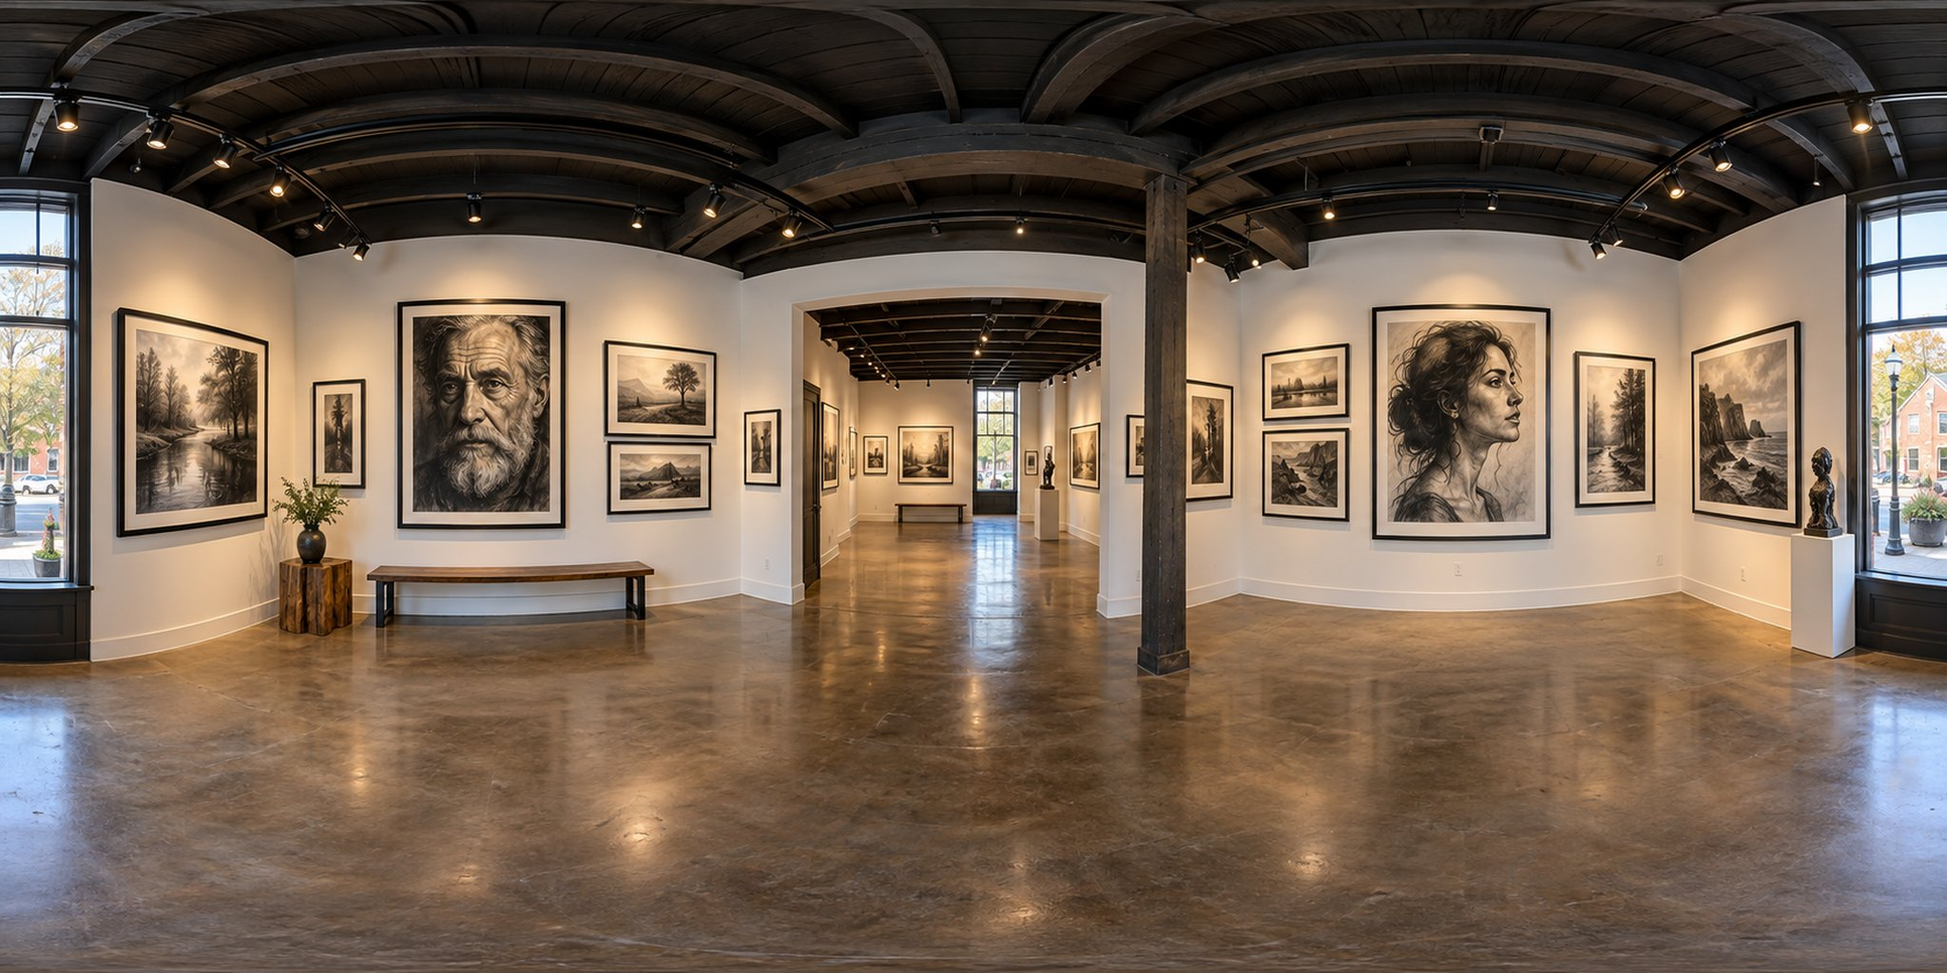
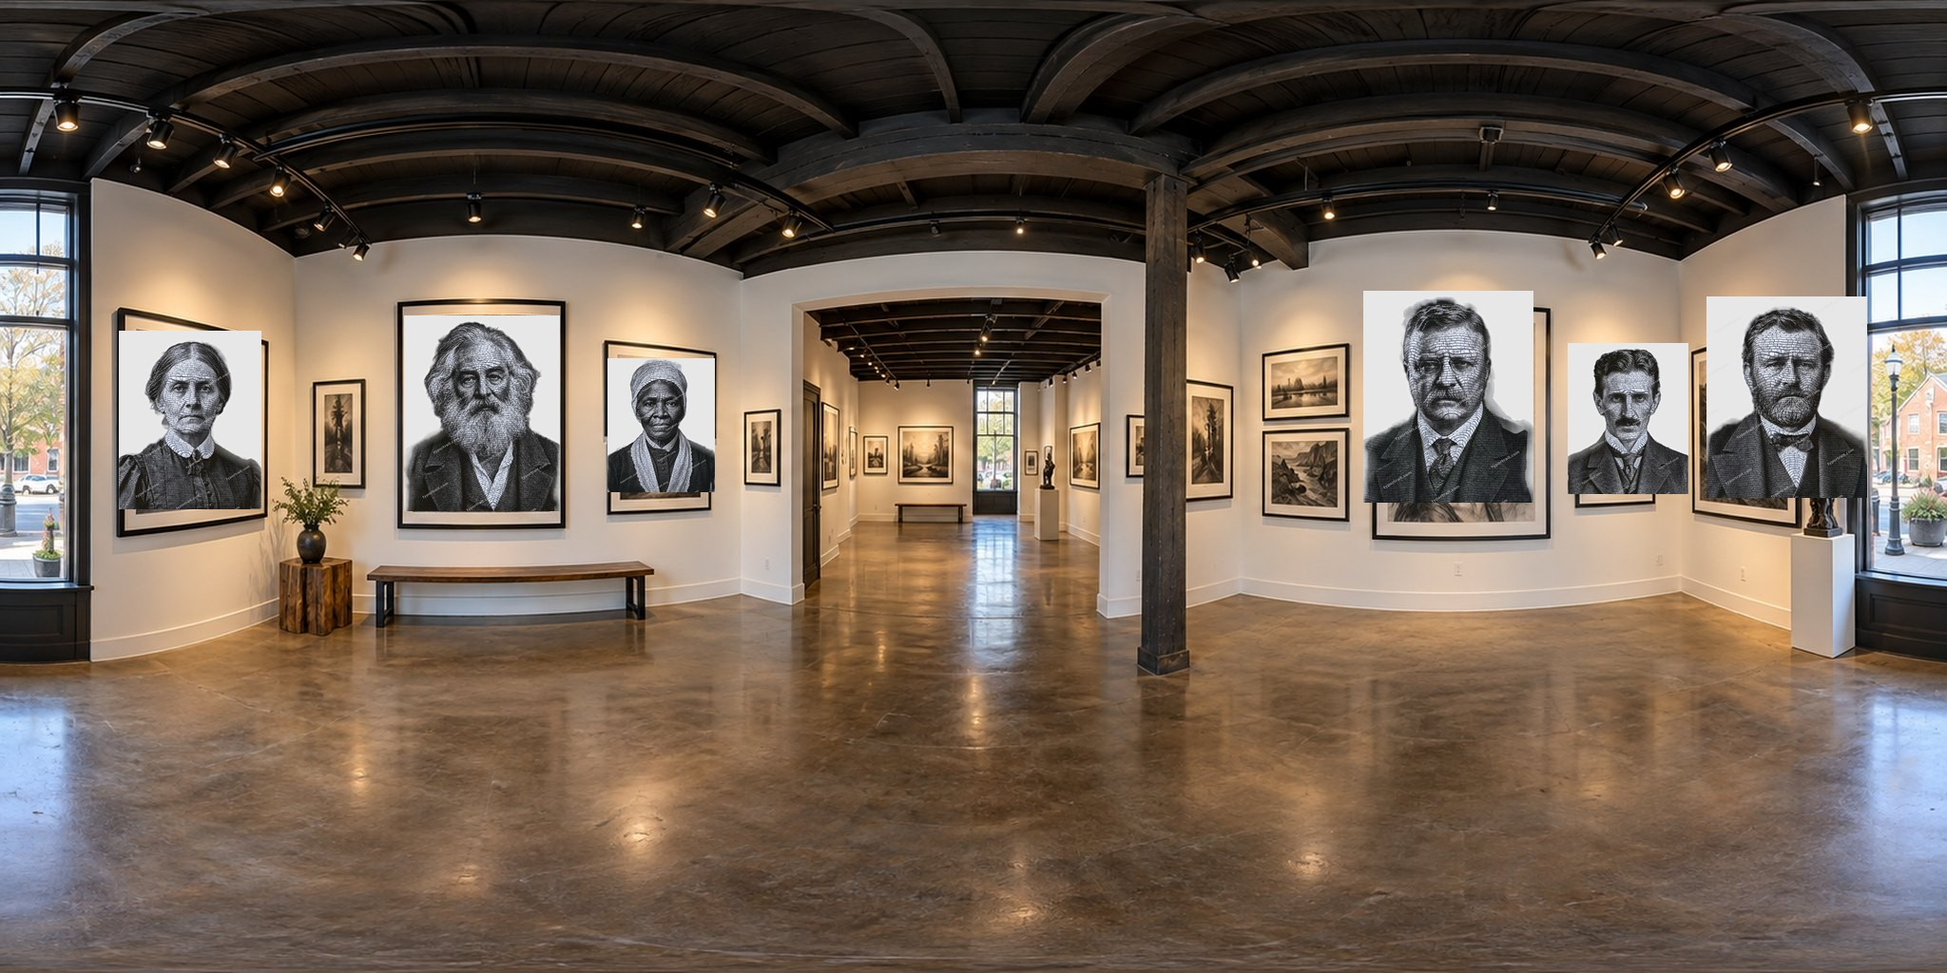
Rebuild Photo Tour: bake portraits into the panorama photos instead of overlaying cards
The previous Photo Tour placed our portraits as separate 3D "cards" floating in
front of the panorama, backed by an oversized wall-toned patch to hide whatever
was originally at that spot. Technically it covered the original art, but it
still read as exactly what it was: flat stickers pasted on top of a photograph,
not art actually hanging on the wall -- not what "replicate the look and feel
of the zip file, including our art" asked for.

This replaces that with real image compositing: ops/photoscene-composite.py
measures each real photographed frame's picture area (hand-measured pixel
bounding boxes) and pastes the matching portrait directly into the panorama
JPG at that exact position, so ours sits inside the SAME real frame, mat and
lighting as whatever used to hang there. 19 of the 23 catalog items have a
usable real frame across the three photos to bake into (the other 4 still
sell fine from the grid and the corridor, just without a natural spot in
these specific photos). What's built in gallery.html at runtime is now just
an invisible click/caption target per baked position -- no visible mesh over
the art itself, so there's nothing left to look like a sticker.

Two real bugs surfaced building this, both from getting the panorama's
coordinate system wrong in different ways:

- A transcription slip reading pixel coordinates off a cropped, gridded
  reference image (dropped the leading "1" digit on several main-room and
[…]

Changed region(s): [[0.6875, 0.2812, 0.9688, 0.5312], [0.1875, 0.3125, 0.375, 0.5312], [0.0625, 0.3125, 0.1562, 0.5312]]

diff --git a/typography_engine/static/gallery.html b/typography_engine/static/gallery.html
@@ -197,6 +197,15 @@ let CAT=null, PRODUCTS=null, DIGITAL_CENTS=1499, curCol=0, curSec=0, curItem=nul
 // to `var` just for this.
 window.corGetView = ()=>VIEW;
 window.corSetView = v=>{ VIEW=v; };
+// The photo tour's portraits are baked into specific fixed positions in each panorama
+// photo (see the module script), keyed by catalog item id rather than by position in
+// whatever's currently filtered/searched -- so it looks items up directly by id,
+// independent of search/collection state, rather than through getCurrentItems().
+window.findItem = id => {
+  for(const col of CAT.collections) for(const sec of col.sections)
+    for(const it of sec.items) if(it.id===id) return it;
+  return null;
+};
 
 // Gallery brand skins. Same storefront, different front: name, tagline, theme, and
 // whether the generator ("make your own from a photo") is surfaced. A gallery-only
@@ -439,55 +448,57 @@ let maxProgress = 0;
 let roomHalfWidth = 580;
 let raycaster, pointerNDC;   // built in initRenderer, once THREE is actually loaded
 
-// ---- Photo Tour: a real photographed gallery, our portraits placed inside it -----
+// ---- Photo Tour: a real photographed gallery, our portraits baked into it ---------
 // The procedural corridor above gets the geometry and depth right but is still built
 // from flat materials and a handful of lights -- it can only ever look like a decent
 // 3D model. These three images are real (or near-photoreal) equirectangular panoramas
-// of an actual gallery interior. Mapped onto the inside of a sphere with the camera at
-// its center, they give a level of realism no procedural room can match; our own
-// portraits are placed in front of the panorama as real 3D frames (reusing the same
-// gold-border/mat/caption look as the corridor's), positioned by eye at open-looking
-// wall spots in each photo and clickable exactly like the corridor's.
-// Each room can only show as many portraits as it has hand-placed slots (23 total,
-// matching History in Words exactly) -- a smaller filtered set degrades gracefully
-// (later slots just go unused); a much larger catalog would need more slots added.
-const PHOTO_ROOM_RADIUS = 900;      // the panorama sphere
-const PHOTO_FRAME_RADIUS = 650;     // how far in front of it our portraits sit
-// Sized much smaller than the corridor's FRAME_W/BAY_FRAME_W: those were tuned for a
-// walker passing frames at 580-900 units away, but every photo-tour frame sits at a
-// fixed distance (PHOTO_FRAME_RADIUS) -- at that distance the corridor's sizing filled
-// most of the screen. These read as a painting hung at a normal viewing distance.
-const PHOTO_FRAME_W = 150, PHOTO_FRAME_H = 187.5;
-const PHOTO_BAY_W = 95, PHOTO_BAY_H = 118.75;
+// of an actual gallery interior, uploaded by the user. A first version placed our
+// portraits as separate 3D "cards" floating in front of the photo -- technically
+// correct but it read as exactly that: flat stickers pasted on top of a photograph,
+// not art actually hanging on the wall. This version instead bakes each portrait
+// directly into the panorama JPGs themselves (see ops/photoscene-composite, or ask
+// Claude to regenerate), pixel-replacing the real photographed artwork's picture area
+// -- so ours sits inside the SAME real frame, mat and lighting as whatever used to
+// hang there. What's built at runtime is just an invisible click/caption target at
+// each baked position, for navigation -- there is no visible mesh over the art itself.
+// Each photo can only show as many portraits as it has real frames worth pasting into
+// (19 of 23 across all three rooms) -- the remaining 4 still sell fine from the grid
+// and the corridor, they just don't have a natural-looking wall spot in these photos.
+const PHOTO_BAKE_VERSION = 2;    // bump whenever the baked panorama JPGs are regenerated
+const PHOTO_ROOM_RADIUS = 900;   // the panorama sphere
+const PHOTO_FRAME_RADIUS = 650;  // depth of the invisible click targets (matches bake)
+// Yaw values below are pre-corrected for THREE's actual SphereGeometry UV convention
+// (empirically calibrated by raycasting the sphere and reading back its real UV --
+// texture u=0.75 sits at yaw=0, not u=0.5 as the naive spherical-coordinates formula
+// in updatePhotoCamera/buildPhotoFrame would suggest: yaw_here = PI/2 - yaw_naive).
+// pitch needed no such correction. Get this wrong and captions/click targets land near
+// the right neighborhood but not on the actual baked portrait -- exactly what happened
+// before this was calibrated, and easy to miss since it looks approximately plausible.
 const PHOTO_ROOMS = [
   { name:"The Entrance", src:"/static/gallery/photoscene/entrance.jpg", slots:[
-    {yaw:-1.73,  pitch:0.364, w:PHOTO_FRAME_W,     h:PHOTO_FRAME_H},
-    {yaw:-1.178, pitch:0.262, w:PHOTO_BAY_W, h:PHOTO_BAY_H},
-    {yaw:-0.626, pitch:0.262, w:PHOTO_FRAME_W,     h:PHOTO_FRAME_H},
-    {yaw:0.274,  pitch:0.262, w:PHOTO_FRAME_W,     h:PHOTO_FRAME_H},
-    {yaw:1.317,  pitch:0.262, w:PHOTO_BAY_W, h:PHOTO_BAY_H},
-    {yaw:2.401,  pitch:0.262, w:PHOTO_FRAME_W,     h:PHOTO_FRAME_H},
-    {yaw:2.994,  pitch:0.344, w:PHOTO_FRAME_W,     h:PHOTO_FRAME_H},
+    {id:"edgar-allan-poe", yaw:-2.9974, pitch:0.2899, w:284.4, h:358.7},
+    {id:"frederick-douglass", yaw:2.1583, pitch:0.1902, w:187.9, h:235.9},
+    {id:"harriet-tubman", yaw:0.7547, pitch:0.1825, w:254.4, h:320.3},
+    {id:"abraham-lincoln", yaw:-0.9787, pitch:0.1825, w:207.9, h:261.2},
+    {id:"mark-twain", yaw:-1.4128, pitch:0.2746, w:194.5, h:244.2},
   ]},
   { name:"The Main Gallery", src:"/static/gallery/photoscene/main-room.jpg", slots:[
-    {yaw:-2.528, pitch:0.262, w:PHOTO_FRAME_W,     h:PHOTO_FRAME_H},
-    {yaw:-1.595, pitch:0.221, w:PHOTO_FRAME_W,     h:PHOTO_FRAME_H},
-    {yaw:-1.014, pitch:0.221, w:PHOTO_BAY_W, h:PHOTO_BAY_H},
-    {yaw:0.765,  pitch:0.2,   w:PHOTO_BAY_W, h:PHOTO_BAY_H},
-    {yaw:1.072,  pitch:0.18,  w:PHOTO_BAY_W, h:PHOTO_BAY_H},
-    {yaw:1.604,  pitch:0.2,   w:PHOTO_FRAME_W,     h:PHOTO_FRAME_H},
-    {yaw:2.074,  pitch:0.262, w:PHOTO_FRAME_W,     h:PHOTO_FRAME_H},
-    {yaw:2.544,  pitch:0.262, w:PHOTO_FRAME_W,     h:PHOTO_FRAME_H},
+    {id:"susan-b-anthony", yaw:-2.1844, pitch:0.2132, w:305.4, h:385.7},
+    {id:"walt-whitman", yaw:-3.1278, pitch:0.2362, w:335.2, h:424.2},
+    {id:"sojourner-truth", yaw:2.5802, pitch:0.1979, w:227.2, h:285.6},
+    {id:"theodore-roosevelt", yaw:0.0399, pitch:0.2899, w:365.3, h:463.5},
+    {id:"nikola-tesla", yaw:-0.5415, pitch:0.2209, w:256.3, h:322.7},
+    {id:"ulysses-s-grant", yaw:-1.0554, pitch:0.2899, w:345.2, h:437.2},
   ]},
   { name:"The Rear Salon", src:"/static/gallery/photoscene/rear-room.jpg", slots:[
-    {yaw:-2.733, pitch:0.262, w:PHOTO_FRAME_W,     h:PHOTO_FRAME_H},
-    {yaw:-2.078, pitch:0.2,   w:PHOTO_FRAME_W,     h:PHOTO_FRAME_H},
-    {yaw:-0.933, pitch:0.2,   w:PHOTO_FRAME_W,     h:PHOTO_FRAME_H},
-    {yaw:0.315,  pitch:0.2,   w:PHOTO_BAY_W, h:PHOTO_BAY_H},
-    {yaw:0.765,  pitch:0.2,   w:PHOTO_BAY_W, h:PHOTO_BAY_H},
-    {yaw:1.297,  pitch:0.2,   w:PHOTO_BAY_W, h:PHOTO_BAY_H},
-    {yaw:1.992,  pitch:0.262, w:PHOTO_FRAME_W,     h:PHOTO_FRAME_H},
-    {yaw:2.831,  pitch:0.262, w:PHOTO_FRAME_W,     h:PHOTO_FRAME_H},
+    {id:"booker-t-washington", yaw:-1.9819, pitch:0.2669, w:431.2, h:550.2},
+    {id:"sitting-bull", yaw:-2.6446, pitch:0.2439, w:207.9, h:261.2},
+    {id:"geronimo", yaw:2.5525, pitch:0.2025, w:310.1, h:391.7},
+    {id:"clara-barton", yaw:1.2149, pitch:0.1979, w:207.9, h:261.2},
+    {id:"elizabeth-cady-stanton", yaw:0.8084, pitch:0.2056, w:217.6, h:273.4},
+    {id:"charles-darwin", yaw:0.3559, pitch:0.2746, w:188.8, h:236.9},
+    {id:"queen-victoria", yaw:-0.5568, pitch:0.2669, w:437.2, h:558.2},
+    {id:"john-brown", yaw:-1.3438, pitch:0.2362, w:281.7, h:355.3},
   ]},
 ];
 let photoRoom = 0, photoYaw = 0, photoPitch = 0, photoFov = 66;
@@ -865,71 +876,47 @@ window.exitWalk = function(){
   stopLoop();
 };
 
-// ---- Photo Tour: build one room (panorama sphere + our portraits placed inside it) -
-function buildPhotoFrame(loader, it, yaw, pitch, w, h){
+// ---- Photo Tour: build one room (panorama sphere + invisible click/caption targets
+// over each portrait, which is otherwise baked straight into the panorama JPG) -------
+function buildPhotoFrame(it, yaw, pitch, w, h){
   const g = new THREE.Group();
-  // A plain wall-toned backer, well oversized relative to the frame -- the slot
-  // positions were placed by eye against the panorama photo, not measured against the
-  // exact pixel bounds of whatever painting already hangs there, so without this the
-  // photo's own original art shows past our frame's edges. Solid color, no texture:
-  // it only needs to read as "blank wall" at a glance, not survive close inspection.
-  const patch = new THREE.Mesh(
-    new THREE.PlaneGeometry((w+26)*1.3, (h+26)*1.3),
-    // Unlit (not MeshStandardMaterial): this only needs to read as "blank wall" next
-    // to a real photo -- letting the scene's lights tint/darken it made it read as an
-    // obvious grey card instead.
-    new THREE.MeshBasicMaterial({color:0xe9decb})
-  );
-  patch.position.z = -3;
-  g.add(patch);
-  const border = new THREE.Mesh(
-    new THREE.PlaneGeometry(w+26, h+26),
-    new THREE.MeshStandardMaterial({color:0x8a6a34, roughness:0.45, metalness:0.25})
-  );
-  border.position.z = -0.6;
-  g.add(border);
-
-  const mat = new THREE.Mesh(
-    new THREE.PlaneGeometry(w+8, h+8),
-    new THREE.MeshStandardMaterial({color:0xefe9dc, roughness:0.9})
-  );
-  mat.position.z = -0.3;
-  g.add(mat);
-
-  const tex = loader.load(`/static/gallery/art/${it.id}.png`);
-  tex.colorSpace = THREE.SRGBColorSpace;
-  const pic = new THREE.Mesh(
+  // The portrait itself is real photo pixels now (baked in ahead of time), not a mesh
+  // -- this is only a click/hover target for navigation, so it must never be visible.
+  // colorWrite/depthWrite false (rather than visible:false) keeps it fully raycastable
+  // while drawing nothing, so it can't ever mismatch the baked position by a frame.
+  const hit = new THREE.Mesh(
     new THREE.PlaneGeometry(w, h),
-    new THREE.MeshStandardMaterial({map:tex, roughness:0.95})
+    new THREE.MeshBasicMaterial({colorWrite:false, depthWrite:false})
   );
-  pic.userData.itemId = it.id;
-  g.add(pic);
+  hit.userData.itemId = it.id;
+  g.add(hit);
 
   const cap = new THREE.Mesh(
     new THREE.PlaneGeometry(w*0.95, w*0.95*(96/512)),
     new THREE.MeshBasicMaterial({map:makeCaptionTexture(it.title), transparent:true})
   );
-  cap.position.y = -(h/2 + 28);
+  cap.position.y = -(h/2 + 22);
   g.add(cap);
 
   // Place on a sphere around the camera at (yaw,pitch): same spherical-to-cartesian
-  // mapping used for the camera's own look direction in updatePhotoCamera (so a
-  // camera at yaw/pitch looks straight at this point). Facing it back toward the room
-  // center needs its own orthonormal basis (not Object3D.lookAt, and not a plain Euler
-  // rotation.set matching the camera's own pitch/-yaw): both of those either faced the
-  // wrong way or rolled the frame at combined nonzero yaw+pitch. Building right/up/
-  // forward explicitly via cross products, the standard billboard-facing construction,
-  // keeps "up" true regardless of yaw/pitch.
+  // mapping used both for the camera's own look direction in updatePhotoCamera and for
+  // computing where each portrait was baked into the panorama (see the composite
+  // script), so a camera at that yaw/pitch looks straight at the baked art. Facing the
+  // caption back toward the room center needs its own orthonormal basis (not
+  // Object3D.lookAt, and not a plain Euler rotation.set matching the camera's own
+  // pitch/-yaw): both of those either faced the wrong way or rolled at combined
+  // nonzero yaw+pitch. Building right/up/forward explicitly via cross products, the
+  // standard billboard-facing construction, keeps "up" true regardless of yaw/pitch.
   const dir = new THREE.Vector3(
     Math.cos(pitch)*Math.sin(yaw), Math.sin(pitch), -Math.cos(pitch)*Math.cos(yaw)
   );
   g.position.copy(dir).multiplyScalar(PHOTO_FRAME_RADIUS);
-  const forward = dir.clone().negate();   // the frame's front (+Z) should face the room center
+  const forward = dir.clone().negate();   // faces back toward the room center
   const right = new THREE.Vector3().crossVectors(new THREE.Vector3(0,1,0), forward).normalize();
   const up = new THREE.Vector3().crossVectors(forward, right).normalize();
   g.quaternion.setFromRotationMatrix(new THREE.Matrix4().makeBasis(right, up, forward));
   scene.add(g);
-  return {group:g, pic, id:it.id};
+  return {group:g, pic:hit, id:it.id};
 }
 
 function buildPhotoRoom(idx){
@@ -943,7 +930,14 @@ function buildPhotoRoom(idx){
   const loader = new THREE.TextureLoader(manager);
 
   const room = PHOTO_ROOMS[idx];
-  const panoTex = loader.load(room.src);
+  // Cache-busted: these panoramas have baked-in art that moves whenever the composite
+  // is regenerated, and browsers cache JPGs aggressively (no Cache-Control on this
+  // static mount, just ETag/Last-Modified) -- a returning visitor with a stale cached
+  // copy would see art at the OLD baked position while the click/caption targets below
+  // (loaded fresh with the page) point at the NEW one. Bump PHOTO_BAKE_VERSION whenever
+  // the panoramas are regenerated; a plain per-load timestamp would defeat caching
+  // entirely, which these ~400KB images don't need on every single page view.
+  const panoTex = loader.load(room.src + "?v=" + PHOTO_BAKE_VERSION);
   panoTex.colorSpace = THREE.SRGBColorSpace;
   const sphere = new THREE.Mesh(
     new THREE.SphereGeometry(PHOTO_ROOM_RADIUS, 64, 40),
@@ -951,12 +945,13 @@ function buildPhotoRoom(idx){
   );
   scene.add(sphere);
 
-  const items = window.getCurrentItems();
-  const startIdx = PHOTO_ROOMS.slice(0, idx).reduce((n,r)=>n+r.slots.length, 0);
+  // Baked positions are keyed by catalog item id (see PHOTO_ROOMS above), not by
+  // position in whatever's currently filtered/searched -- window.findItem looks an id
+  // up directly against the full catalog so this never drifts with search state.
   frameEntries = [];
-  room.slots.forEach((slot, i)=>{
-    const it = items[startIdx+i];
-    if(it) frameEntries.push(buildPhotoFrame(loader, it, slot.yaw, slot.pitch, slot.w, slot.h));
+  room.slots.forEach(slot => {
+    const it = window.findItem(slot.id);
+    if(it) frameEntries.push(buildPhotoFrame(it, slot.yaw, slot.pitch, slot.w, slot.h));
   });
 
   camera.position.set(0, EYE_Y, 0);

diff --git a/typography_engine/ops/photoscene-composite.py b/typography_engine/ops/photoscene-composite.py
@@ -1,0 +1,146 @@
+#!/usr/bin/env python3
+"""Bakes History in Words portraits directly into the Photo Tour panorama JPGs
+(static/gallery/photoscene/*.jpg), replacing the real photographed artwork's picture
+area pixel-for-pixel so ours sits inside the same real frame, mat and lighting as
+whatever used to hang there -- see the "Photo Tour" comment block in gallery.html for
+why (a first version overlaid separate 3D "cards" on top of the photos instead, which
+read as flat stickers pasted onto a photograph, not art actually hanging on a wall).
+
+Run this from a tree where static/gallery/photoscene/*.jpg are still the ORIGINAL,
+un-baked panoramas (git checkout -- static/gallery/photoscene/ first if they've
+already been baked once -- this script pastes destructively, not idempotently, and
+running it twice bakes a portrait on top of an already-baked one). Needs Pillow:
+    python3 ops/photoscene-composite.py
+
+REGIONS below are outer pixel bounding boxes (x0,y0,x1,y1) of real frames in each
+2048x1024 equirectangular photo, hand-measured by cropping+gridding the image and
+reading it off (see conversation history / ask Claude to redo this if the panoramas
+ever change). ITEMS assigns catalog items to regions in order, one list per room --
+there are only as many usable regions as real frames worth pasting into, so a 23-item
+catalog with only 19 good regions leaves the last 4 items unbaked (still sellable from
+the grid and the walkthrough corridor, just without a natural spot in these photos).
+
+After running, paste the printed PHOTO_ROOMS block into gallery.html verbatim (it
+already has the yaw correction applied -- see below) and bump PHOTO_BAKE_VERSION so
+browsers with the old panoramas cached don't show stale baked positions.
+
+IMPORTANT -- the yaw correction: THREE.js's SphereGeometry does NOT map texture u=0.5
+to the camera's default forward direction (0,0,-1) the way naive spherical-coordinates
+math would suggest. It was empirically calibrated (raycasting the live sphere mesh and
+reading back its real UV at various camera angles) that texture u=0.75 sits at yaw=0.
+This script's yaw_pitch() already applies that correction (yaw = PI/2 - naive_yaw), so
+the yaw values it prints are ready to paste straight into gallery.html's PHOTO_ROOMS --
+do NOT re-derive yaw from pixel position by the "obvious" formula without this
+correction, or captions/click-targets will land near the right neighborhood but not on
+the actual baked portrait, which is exactly what happened here before this was found.
+"""
+import json
+import math
+from pathlib import Path
+
+from PIL import Image
+
+ROOT = Path(__file__).resolve().parent.parent
+ART_DIR = ROOT / "static/gallery/art"
+PANO_DIR = ROOT / "static/gallery/photoscene"
+
+ITEMS = [
+    "edgar-allan-poe", "frederick-douglass", "harriet-tubman", "abraham-lincoln", "mark-twain",
+    "susan-b-anthony", "walt-whitman", "sojourner-truth", "theodore-roosevelt", "nikola-tesla",
+    "ulysses-s-grant", "booker-t-washington", "sitting-bull", "geronimo", "clara-barton",
+    "elizabeth-cady-stanton", "charles-darwin", "queen-victoria", "john-brown", "pt-barnum",
+    "chief-joseph", "emily-dickinson", "robert-e-lee",
+]
+
+ROOM_NAMES = {"entrance": "The Entrance", "main-room": "The Main Gallery", "rear-room": "The Rear Salon"}
+
+REGIONS = {
+    "entrance": [
+        (390, 320, 540, 515),
+        (780, 385, 885, 515),
+        (1020, 365, 1560, 540),
+        (1800, 365, 1910, 540),
+        (1945, 250, 2048, 595),
+    ],
+    "main-room": [
+        (120, 320, 280, 565),
+        (420, 315, 595, 555),
+        (635, 355, 755, 540),
+        (1428, 290, 1618, 545),
+        (1645, 350, 1780, 530),
+        (1790, 290, 1970, 545),
+    ],
+    "rear-room": [
+        (0, 280, 268, 570),
+        (295, 300, 405, 565),
+        (620, 340, 788, 552),
+        (1085, 350, 1195, 545),
+        (1215, 345, 1330, 545),
+        (1370, 300, 1470, 545),
+        (1605, 260, 1830, 590),
+        (1900, 280, 2048, 590),
+    ],
+}
+
+W, H = 2048, 1024
+RADIUS = 650  # matches PHOTO_FRAME_RADIUS in gallery.html
+
+
+def inner_box(x0, y0, x1, y1):
+    """A centered 4:5 (portrait) box within the region, filling most of it -- leaves a
+    thin margin of the real frame's own mat/border visible, which is what makes the
+    result read as "a picture in that frame" instead of a precisely-matched sticker."""
+    avail_w, avail_h = (x1 - x0) * 0.94, (y1 - y0) * 0.9
+    target_w = avail_h * 0.8
+    if target_w > avail_w:
+        target_w, target_h = avail_w, avail_w / 0.8
+    else:
+        target_h = avail_h
+    cx, cy = (x0 + x1) / 2, (y0 + y1) / 2
+    return cx - target_w / 2, cy - target_h / 2, cx + target_w / 2, cy + target_h / 2
+
+
+def yaw_pitch(px, py):
+    naive_yaw = (px / W - 0.5) * 2 * math.pi
+    yaw = math.pi / 2 - naive_yaw               # see module docstring
+    while yaw > math.pi: yaw -= 2 * math.pi
+    while yaw <= -math.pi: yaw += 2 * math.pi
+    pitch = (0.5 - py / H) * math.pi
+    return yaw, pitch
+
+
+def world_size(bx0, by0, bx1, by1):
+    ang_w = (bx1 - bx0) / W * 2 * math.pi
+    ang_h = (by1 - by0) / H * math.pi
+    return 2 * RADIUS * math.tan(ang_w / 2), 2 * RADIUS * math.tan(ang_h / 2)
+
+
+def main():
+    idx = 0
+    js_lines = ["const PHOTO_ROOMS = ["]
+    for room, regions in REGIONS.items():
+        im = Image.open(PANO_DIR / f"{room}.jpg").convert("RGB")
+        js_lines.append(f'  {{ name:"{ROOM_NAMES[room]}", src:"/static/gallery/photoscene/{room}.jpg", slots:[')
+        for (x0, y0, x1, y1) in regions:
+            it = ITEMS[idx]; idx += 1
+            bx0, by0, bx1, by1 = inner_box(x0, y0, x1, y1)
+            bw, bh = int(round(bx1 - bx0)), int(round(by1 - by0))
+            art = Image.open(ART_DIR / f"{it}.png").convert("RGB").resize((bw, bh), Image.LANCZOS)
+            im.paste(art, (int(round(bx0)), int(round(by0))))
+            yaw, pitch = yaw_pitch((bx0 + bx1) / 2, (by0 + by1) / 2)
+            ww, wh = world_size(bx0, by0, bx1, by1)
+            js_lines.append(
+                f'    {{id:"{it}", yaw:{round(yaw, 4)}, pitch:{round(pitch, 4)}, '
+                f'w:{round(ww, 1)}, h:{round(wh, 1)}}},'
+            )
+        js_lines.append("  ]},")
+        im.save(PANO_DIR / f"{room}.jpg", quality=90)
+        print(f"{room}: baked {len(regions)} portraits")
+    js_lines.append("];")
+
+    print(f"\nTOTAL ITEMS USED: {idx} of {len(ITEMS)}\n")
+    print("\n".join(js_lines))
+
+
+if __name__ == "__main__":
+    main()
